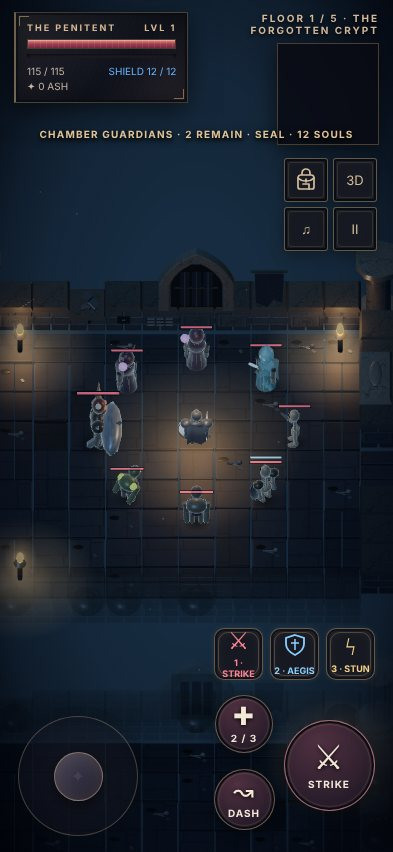
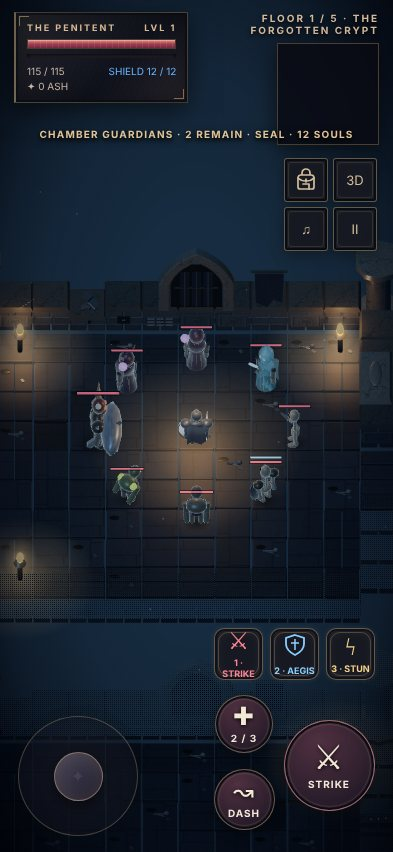
Graphics v2 increment 7: final captures, results and device checklist
Recaptures all 25 scenes on the finished increment 7 (budget check passes
for every scene) and adds docs/graphics-v2/RESULTS.md: increments and PRs,
final measurements against main, tests added, known limitations,
remaining asset work and the physical-device checklist. PROJECT.md and
TASKS.md record increment 7 and the review order.

Claude-Session: https://claude.ai/code/session_01Bq89noHVrNe8BkEGHro4xE

diff --git a/docs/graphics-v2/RESULTS.md b/docs/graphics-v2/RESULTS.md
@@ -1,0 +1,130 @@
+# Graphics overhaul v2 — results, measurements and device checklist
+
+Status: **all seven increments implemented on stacked development branches; nothing
+merged or deployed.** Plan and decisions: [SPEC.md](SPEC.md). Side-by-side gallery:
+serve the repository and open [index.html](index.html). Before = main `387a900`.
+
+## Increments and pull requests
+
+| # | Increment | PR | Branch |
+| --- | --- | --- | --- |
+| 0 | Specification, decisions D1–D5, baseline | #19 | `development/graphics-overhaul-v2` |
+| 1 | Capture tooling, enforced budgets, readability floor | #20 | `development/graphics-v2-tooling` |
+| 2 | Baked torch light and AO, value pass, CSS grade | #21 | `development/graphics-v2-lighting` |
+| 3 | Architecture and five floor identities | #22 | `development/graphics-v2-architecture` |
+| 4 | Telegraph progress, trails, impacts, puffs, halos | #23 | `development/graphics-v2-effects` |
+| 5 | Rim light, armour detail, character animation | #24 | `development/graphics-v2-characters` |
+| 6 | Loot rarity light, item icons, HUD ornament | #25 | `development/graphics-v2-loot-hud` |
+| 7 | Wall cutaway and frustum chunk culling | #26 | `development/graphics-v2-camera` |
+
+Each PR is based on the previous branch. Merge them in order (#19 → #26); each one's
+diff then shows only its own increment.
+
+## Increment 7 (camera, fade and culling)
+
+- **Wall cutaway** replaces the old whole-chunk swap to translucent material clones,
+  in two parts. A **front band** keeps main's behaviour: wall fragments more than 1.2
+  south of the view target and within 9 sideways are dithered to about main's ghost
+  level (72%), so telegraphs, loot and enemies behind south walls stay visible. (The
+  first version cut only around actors; comparing against increment 6 showed south
+  walls had become solid, which was corrected before review.) Around actors,
+  wall-capable environment materials (`envMaterial`) discard fragments that are
+  above ankle height (0.22), nearer the camera than a tracked actor, and within a
+  soft screen radius (1.7) of it, using a 4×4 ordered dither with a faint remaining
+  outline (88% maximum). Tracked actors: the hero always, plus up to three nearby
+  living enemies eased in and out over 0.2 s. Walls stay opaque (no transparency
+  sorting), with no material clones and no extra draw calls. Floors, puddles and ash
+  use plain materials and are never cut.
+- **Frustum culling:** chunk groups are tested against the real camera frustum with
+  precomputed bounds (0.5 margin), replacing the fixed 22×26 box. Three.js still
+  culls each batch; this mainly avoids traversing off-screen chunks (desktop High
+  test scene: 9 chunks traversed instead of 16; Low's larger chunks: 4 either way).
+- **Framing unchanged** (decision D1). No camera pitch change.
+
+## Final measurements
+
+Chromium software WebGL in this container, **not phone FPS**. Same seeded scene,
+eight archetypes, all five floors.
+
+| Preset · view | Draw calls vs main | Triangles vs main | Play-area brightness vs main | Contrast spread vs main | Min draw-call headroom | Min triangle headroom | Textures | Real-time torch lights |
+| --- | --- | --- | --- | --- | --- | --- | --- | --- |
+| Medium · desktop 960×720 | -2 to +20 | -20% to +9% | +13% to +39% | +42% to +117% | 32 | 17.6k | 9 | 2 |
+| High · desktop 960×720 | -6 to +11 | -21% to -6% | +12% to +37% | +44% to +113% | 42 | 29.4k | 9 | 3 |
+| Low · phone 393×852 | -8 to +8 | -33% to +10% | +4% to +24% | +41% to +51% | 14 | 6.0k | 8 | 0 |
+| Medium · phone 393×852 | -9 to +18 | -33% to +13% | +6% to +23% | +10% to +24% | 33 | 15.2k | 9 | 2 |
+| High · phone 393×852 | -8 to +17 | -16% to +13% | +5% to +22% | +11% to +23% | 36 | 13.1k | 9 | 3 |
+
+Negative draw-call and triangle deltas come from increment 7's frustum chunk culling
+(Three.js's per-batch sphere culling is looser than the chunk boxes). The budget check
+(`npm run test:graphics-budget`) passes for all 25 scenes. Headroom is the margin left
+against the per-preset limits (Low +10% draw calls/+20% triangles, Medium/High
++20%/+30%).
+
+Readability floor: every scene keeps at least 60% of main's play-area luminance and
+90% of its luminance spread (decision D3); desktop scenes gained 30–80% contrast.
+Floor build time: about 27–105 ms against main's 24–69 ms (one-off per floor).
+Frame-time samples are advisory only: identical code varied by up to 2.7×.
+
+## Tests added across the overhaul
+
+- Unit: `tests/graphics-budget.test.cjs` (budget and readability checker),
+  `vfx-state.test.cjs` (budgets, telegraph progress truthfulness against
+  `containsHazard`, trails, pools, pose curves), and light-field, occlusion, theme
+  and mote tests in `graphics.test.cjs`.
+- Browser: `tests/effects-browser.cjs` (halos, trails, impacts, puffs, pause freeze,
+  scorch budget, telegraph growth, rim, swing, wind-up, cape, death, loot, icons,
+  cutaway, frustum culling; Low and High) and `tests/hud-layout-browser.cjs` (23
+  HUD/control/inventory rectangles at four viewports, verified identical to main,
+  and 44px touch targets). The graphics suite gained baked-light, grade and the
+  walkable-cell decoration rule. Each new check was verified to fail when its
+  feature was deliberately broken.
+- Capture and budget: `npm run capture:graphics-v2`, `npm run test:graphics-budget`.
+
+## Known limitations
+
+- Characters and bosses are still **procedural pivot rigs**: no skinned meshes,
+  sculpted models, painted textures or authored animation clips.
+- The rim light and the wall cutaway modify Three.js standard-material shaders. They
+  compile in Chromium; iOS Safari and older Android GPUs are unverified. A GLSL
+  compile failure there would break the affected materials rather than fall back.
+- Not done from the spec: fire flipbook textures (Low has no texture slot left),
+  per-actor dissolve (shared materials; ash puffs instead), new acid visuals, a camera
+  pitch change (kept with D1), and a full-screen grade/bloom pass (D2).
+- The dithered cutaway shows a visible stipple up close. Slab edges catch the
+  directional light as thin lines (present on main; more edges now).
+- Budgets are tight on Low (textures at the 8 limit) and Medium (triangles).
+- Portrait and PWA icon provenance remains unverified (D4).
+
+## Remaining asset work (not in scope)
+
+Licensed, mobile-ready skinned GLB models and animation clips for the hero, the eight
+archetypes and the three bosses (with the royal axe), each with recorded source,
+author and redistribution licence. See `assets/bosses/ASSET-REQUIREMENTS.md`.
+Optional: painted item art and a texture atlas if Low's texture budget is
+re-planned.
+
+## Physical-device checklist (iPhone Safari and Android Chrome)
+
+Start on **Low**, then repeat key checks on Medium and High, in portrait and landscape.
+
+1. Load online once, then reload offline; confirm the game starts (cache
+   `vesper-cathedral-v19-graphics-camera`).
+2. On every floor: torch pools visible, rooms without torches still readable, wall
+   tops dark, floor variety present, nothing standing in doorways.
+3. Characters render (rim light visible, no missing or black materials) and bosses
+   render on floors 1, 3 and 5. **If any character or wall is invisible or black,
+   stop and report the device and browser: it indicates a shader compile failure.**
+4. Walk behind a south wall: a soft dithered window opens around the hero; it closes
+   when you step away. Same for a nearby enemy.
+5. Telegraphs: circles, rects and crosses grow to their outline; flame walls only
+   brighten and their safe gap never moves; the final quarter pulses.
+6. Combat: swing trail follows the strike arc; hit flashes; ash puffs on deaths;
+   Execution leaves a scorch on Medium/High only.
+7. Loot: rarity beams (legendary tallest), ring glow, glint on bonus items; pickup
+   flash and rarity-coloured toast.
+8. Inventory: twelve distinct icons, no horizontal scroll at small widths, 44px
+   buttons; HUD frames do not overlap or shift controls.
+9. Pause, background/resume and inventory freeze effects; 2D toggle hides the grade
+   and still plays.
+10. Note sustained frame rate and device warmth after five minutes of combat on each
+    preset.

diff --git a/PROJECT.md b/PROJECT.md
@@ -311,5 +311,14 @@ unverified, one stacked PR per increment, no external art). Increments:
    `387a900`, and requires 44px touch targets. No item rules, rarity tables or
    equipment logic changed.
 
+7. Camera, fade and culling (branch `development/graphics-v2-camera`): wall-capable
+   environment materials (`envMaterial`) use a per-pixel dithered cutaway: a front
+   band ghosts walls more than 1.2 south of the view target (as main's chunk fade
+   did) and soft windows open around the hero and up to three nearby enemies (eased
+   0.2 s). Walls stay opaque, with no material clones or extra draws. Chunks are
+   culled against the camera frustum with precomputed bounds. Framing unchanged
+   (D1). Final measurements, device checklist and remaining asset work:
+   [docs/graphics-v2/RESULTS.md](docs/graphics-v2/RESULTS.md).
+
 Measurements are software WebGL, not phone FPS; physical-device checks remain
 outstanding for every increment.

diff --git a/TASKS.md b/TASKS.md
@@ -21,9 +21,10 @@ decisions in SPEC.md section 9; increments 1–7 follow as one PR each, each bas
 the previous branch. No merge or deployment.
 Progress: increment 1 (tooling and budgets) in PR #20; increment 2 (light and value
 pass) in PR #21; increment 3 (architecture and floor identities) in PR #22; increment 4 (effects)
-in PR #23; increment 5 (characters) in PR #24; increment 6 (loot, icons, HUD) on
-`development/graphics-v2-loot-hud`. Next: increment 7, camera, fade and culling,
-then the final gallery and device checklist.
+in PR #23; increment 5 (characters) in PR #24; increment 6 (loot, icons, HUD) in PR #25;
+increment 7 (camera, fade, culling) on `development/graphics-v2-camera` with the
+final results in docs/graphics-v2/RESULTS.md. Next: owner review of PRs #19 to #26 in
+order and the physical-device checklist; nothing is merged or deployed.
 
 ## Previous task — merged in PR #17
 
